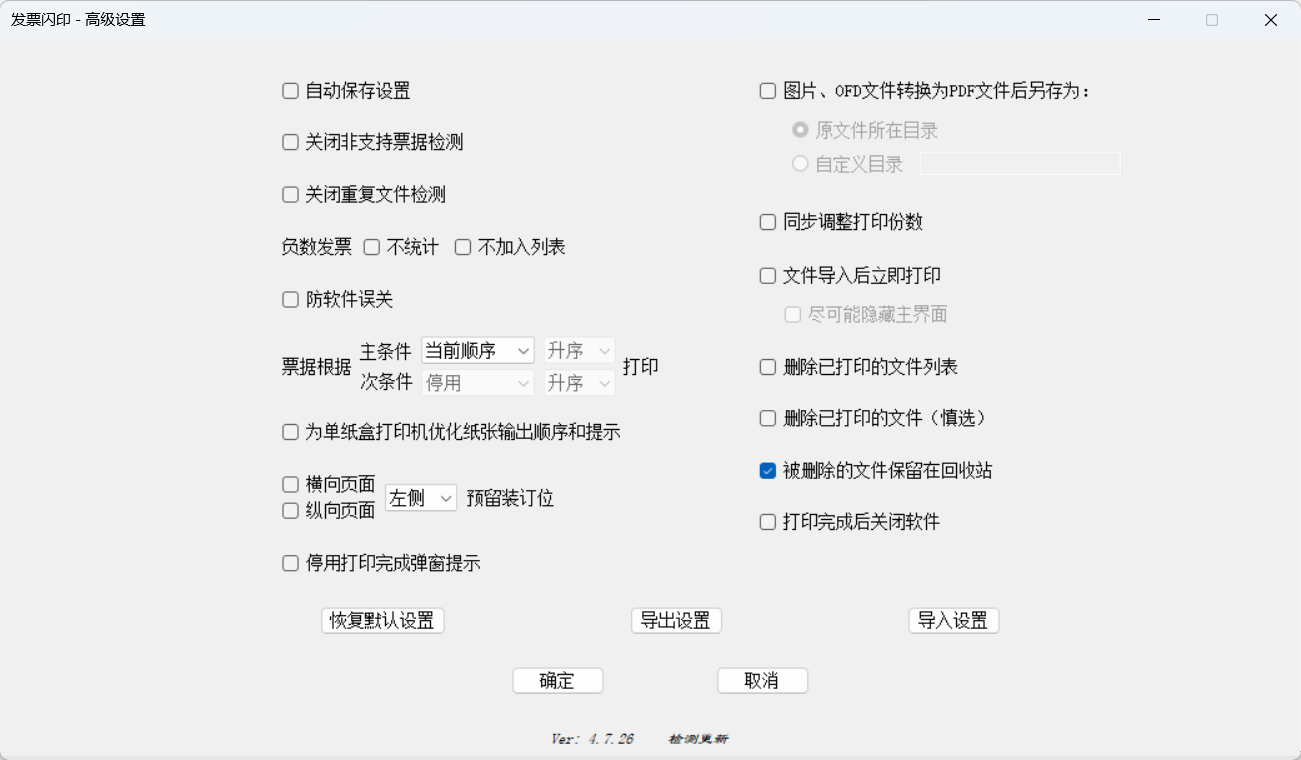
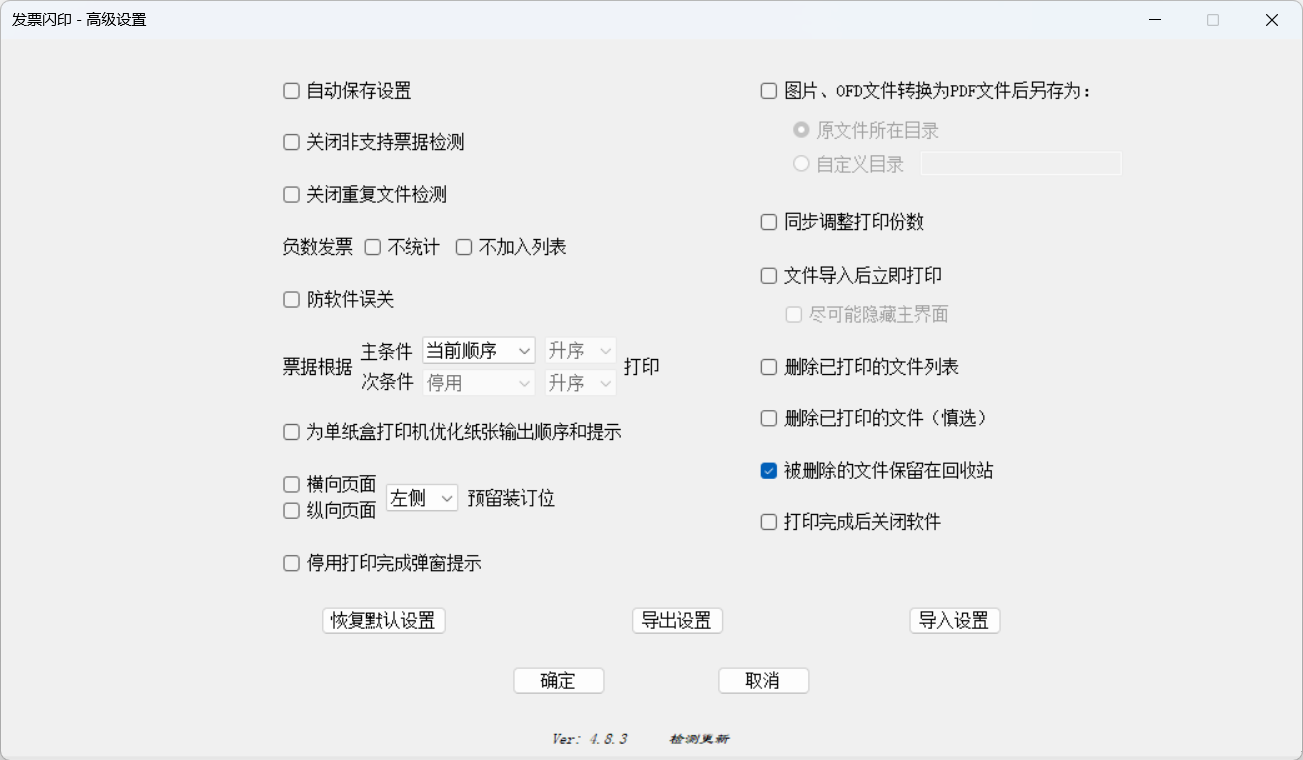
Add files via upload

diff --git a/index.html b/index.html
@@ -3,7 +3,7 @@
 <head>
 <meta charset="utf-8">
 <meta name="viewport" content="width=device-width, initial-scale=1.0">
-<title>2026-05-26 发票闪印</title>
+<title>2026-06-03 发票闪印</title>
 <link rel="stylesheet" href="style.css">
 <link rel="icon" href="img/ico.ico" type="image/x-icon"> 
 </head>
@@ -14,11 +14,16 @@
   <div class="img__container"> <img class="carousel__img" src="img/img2.png" alt="carousel-img" /> </div>
 </div>
 <br>
-<h2><a href="PrintPDF4.7.26.7z" style="text-decoration: none;">发票闪印 4.7.26 立即下载</a></h2>
-	<p>&nbsp; &nbsp; &nbsp; &nbsp; 更新日志： </p>
-	<p>&nbsp; &nbsp; &nbsp; &nbsp; 1、全新的文件合并代码，win7不再因没有Microsoft print to PDF打印机而功能受限 </p>
-	<p>&nbsp; &nbsp; &nbsp; &nbsp; 2、不再使用文件多合一功能表述，采用打印模式，可选一票多份和一纸多票 </p>
-<p>&nbsp; &nbsp; &nbsp; &nbsp; 2、MiniExcel更新至1.43.1 </p>
+<h2><a href="PrintPDF4.8.3.7z" style="text-decoration: none;">发票闪印 4.8.3 立即下载</a></h2>
+<p>&nbsp; &nbsp; &nbsp; &nbsp; 4.8.3更新日志： </p>
+<p>&nbsp; &nbsp; &nbsp; &nbsp; 1、MiniExcel更新至1.44.1 </p>
+<p>&nbsp; &nbsp; &nbsp; &nbsp; 2、优化错误提示 </p>
+<p>&nbsp; &nbsp; &nbsp; &nbsp; 3、纵向页面打印调整：A4靠顶部打印，优化120-127mm纸张打印输出 </p>
+<p>&nbsp; &nbsp; &nbsp; &nbsp; 4、横向页面支持打印整张A4 </p>
+<br>
+<p>&nbsp; &nbsp; &nbsp; &nbsp; 4.7.26更新日志： </p>
+<p>&nbsp; &nbsp; &nbsp; &nbsp; 1、全新的文件合并代码，win7不再因没有Microsoft print to PDF打印机而功能受限 </p>
+<p>&nbsp; &nbsp; &nbsp; &nbsp; 2、不再使用文件多合一功能表述，采用打印模式，可选一票多份和一纸多票 </p>
 <br>
 <br>
 <br>